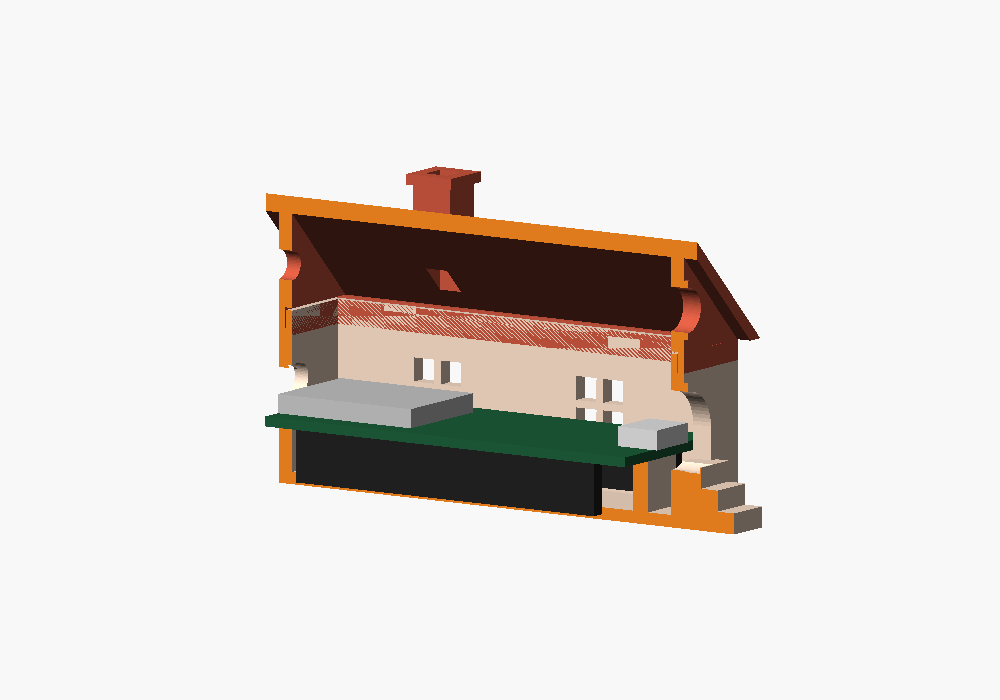
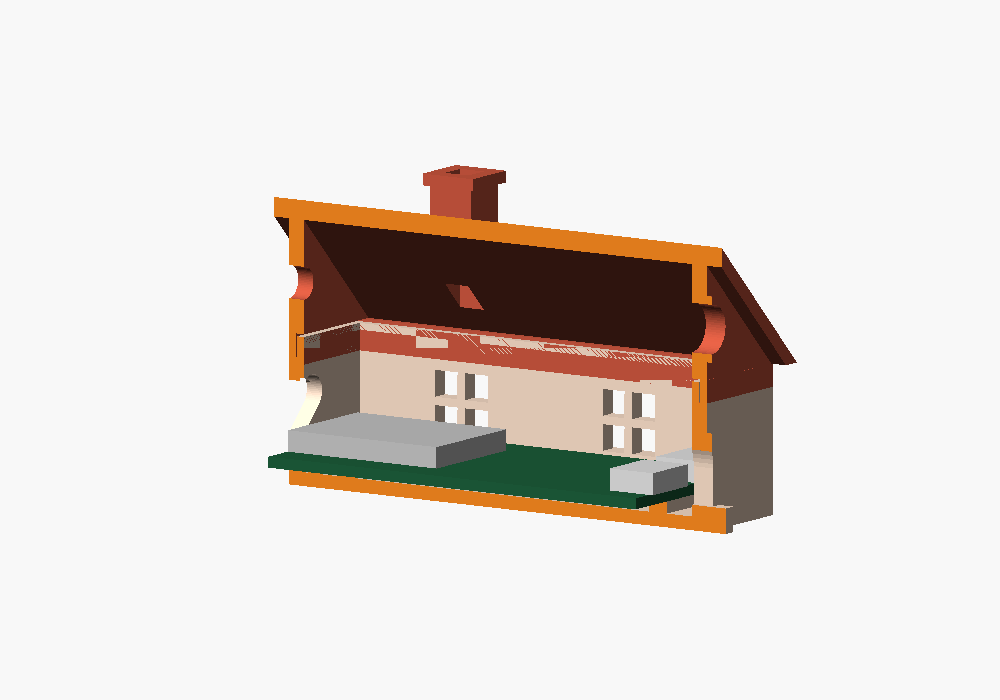
Fit the house to the two-port black N16R8 board
Measured from the board itself and its product photos: 28 mm wide and
63 mm end to end, no pin headers, with the ESP32's own USB on the left
and the USB-to-serial port on the right. The door moves over the left
port (usb_x -6), and the house sits about 6 mm lower with one step.

The unused port overhangs the board's edge by 0.6 mm and would have hit
the inside of the front wall, stopping the board sitting flush — caught
by the fit check, which had been reading a stale result: OpenSCAD writes
no file for an empty intersection, so "no overlap" looked like the last
overlap found. It now gets a shallow pocket inside the wall.

Checked by rendering: the board touches only the ribs, the roof only
the walls, both parts export clean. Not printed yet.

Changed region(s): [[0.248, 0.24, 0.806, 0.78]]

diff --git a/firmware/esp32/case/README.md b/firmware/esp32/case/README.md
@@ -8,31 +8,32 @@ The family's data lives in it, so it's a house:
 - the four-pane **side windows**, the **chimney** and the **heart** in the back wall are the vents
 - "family hustle" is engraved on the roof
 
-It's about 36 × 87 × 51 mm, the size of a small box of matches standing on its end, and it comes in two parts:
+It's about 39 × 75 × 46 mm, a little smaller than a deck of cards, and it comes in two parts:
 
 | part | prints | about |
 | --- | --- | --- |
-| `body` | standing on its floor | 33 × 87 × 28 mm |
-| `roof` | standing on its open bottom | 36 × 83 × 26 mm |
+| `body` | standing on its floor | 36 × 75 × 22 mm |
+| `roof` | standing on its open bottom | 39 × 77 × 27 mm |
 
 Neither needs supports. The roof is pitched at 45° for exactly that reason.
 
 ![inside](cutaway.png)
 
-Inside, the board sits on two ribs between its rows of pins, and a stop behind it takes the push when the cable goes in. The roof slips over a lip at the top of the walls, so it needs no screws.
+Inside, the board sits on two ribs between its rows of pins, and a stop behind it takes the push when the cable goes in. The port you don't use gets a shallow pocket inside the front wall, because it sticks out past the board's edge and would stop the board sitting flat against the wall. The roof slips over a lip at the top of the walls, so it needs no screws.
 
 ## Measure your board first
 
-The defaults are for an **ESP32-S3-DevKitC-1 with pin headers soldered on**. Boards sold as "N16R8" vary, so check these with a ruler or calipers and change them at the top of `house.scad`:
+The defaults are for the **black ESP32-S3 N16R8 board with two USB-C ports** (the one with "USB-JTAG" printed beside its RGB LED), **without pin headers soldered on**. Boards sold as "N16R8" vary, so check these with a ruler or calipers and change them at the top of `house.scad`:
 
 | setting | what | default |
 | --- | --- | --- |
-| `board_l` | length of the board, port end to antenna end | 69.0 |
-| `board_w` | width | 25.4 |
-| `under` | room under the board; **3** if it has no pins soldered on | 9.5 |
-| `usb_x` | how far the port **you plug into** is from the board's centre line, in mm, + to the right looking at the port end | 0 |
+| `board_l` | end to end, including the ports and the antenna if they stick out | 63.0 |
+| `board_w` | width | 28.0 |
+| `under` | room under the board; **9.5** if it has pins soldered on | 3 |
+| `usb_x` | how far the port **you plug into** is from the board's centre line, in mm, + to the right looking at the port end with the components up | −6.0 |
+| `other_usb_x` | the same for the port you don't use; 0 if there's only one | 6.0 |
 
-`usb_x` matters most. Many of these boards have **two** USB-C ports side by side, and the door is only big enough for one plug. Use the port the box was flashed through: on a DevKitC it's the one labelled **USB**, not UART.
+`usb_x` matters most, because the door only has room for one plug. Use the port the box was flashed through: on this board that's the **left** one, the ESP32's own USB ("Pass-Through Type-C USB & OTG"), not the USB-to-serial one on the right. On an Espressif DevKitC-1 it's the one labelled **USB**, not UART.
 
 ## Print
 
